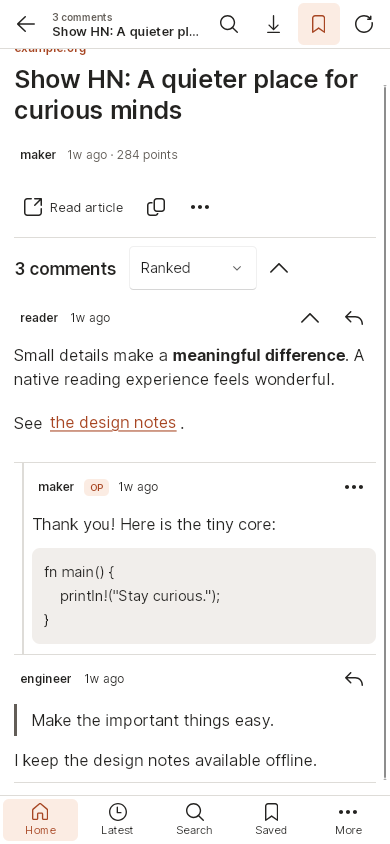
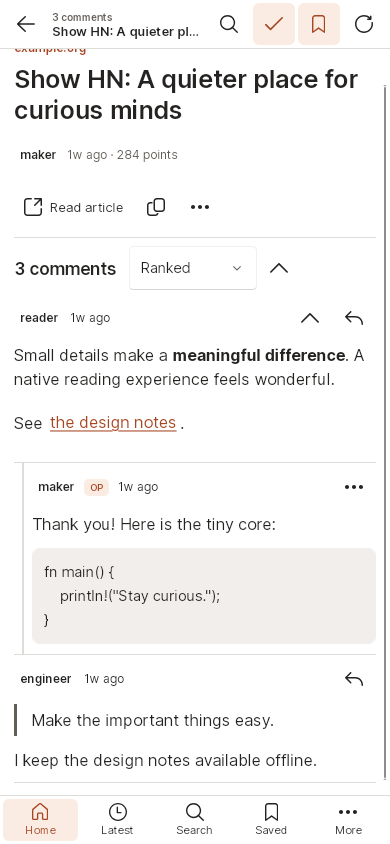
Capture the downloaded shelf and reader discussion in release Chromium

Changed region(s): [[0.6462, 0.0, 0.7692, 0.0616]]

diff --git a/docs/ember.md b/docs/ember.md
@@ -12,7 +12,7 @@ together. A compact window presents one pane at a time with bottom navigation.
 
 ## Rendered screens
 
-These captures use deterministic Hacker News fixtures and the actual FerroUI control tree. The phone discussion was captured in Chromium from the WebAssembly application. The native test host rendered the other previews with Skia and HarfBuzz.
+These captures use deterministic Hacker News fixtures and the actual FerroUI control tree. The phone discussion and Downloaded shelf were captured in Chromium from the WebAssembly application. The native test host rendered the other previews with Skia and HarfBuzz.
 
 ![Ember in the light desktop theme](images/ember-desktop-light.png)
 
@@ -21,6 +21,7 @@ These captures use deterministic Hacker News fixtures and the actual FerroUI con
 [Custom tablet theme](images/ember-tablet-custom.png) ·
 [Appearance settings](images/ember-tablet-settings.png) ·
 [Phone discussion in Chromium](images/ember-phone-comments.png) ·
+[Downloaded shelf on a phone](images/ember-phone-downloaded.png) ·
 [Focus reading with Find](images/ember-focus-find.png)
 
 The focus view keeps the discussion in a centered column as the window grows. The toolbar retains the story title while you read replies.
